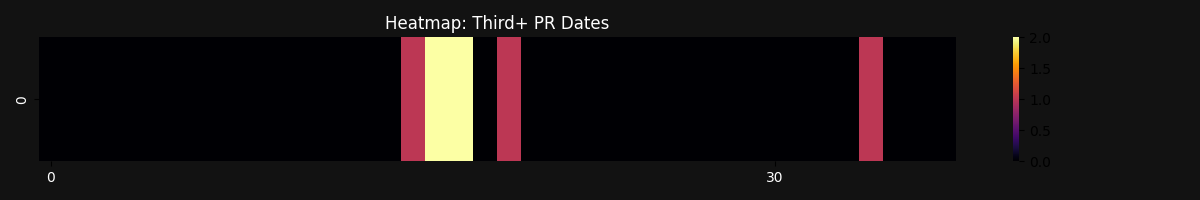
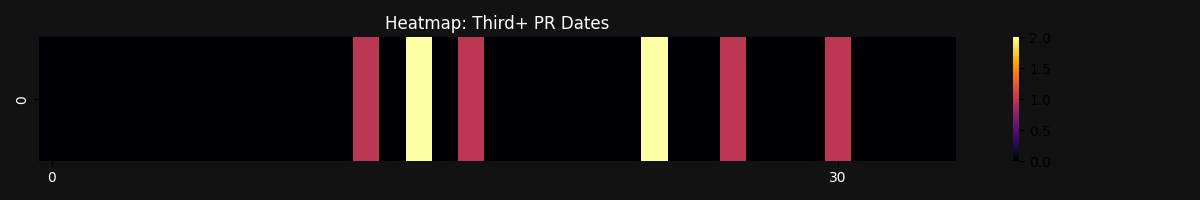
date correction & updated images

diff --git a/docs/index.html b/docs/index.html
@@ -52,7 +52,7 @@
 </head>
 <body>
     <h1>GitHub Pull Request Analysis Report</h1>
-    <p>44 accounts made PRs to at least 2 different repos between 2025-04-14 and 2025-05-21.</p>
+    <p>43 accounts made PRs to at least 2 different repos between 2025-04-17 and 2025-05-21.</p>
 
     
         

diff --git a/make_gh_pages.py b/make_gh_pages.py
@@ -11,7 +11,7 @@ DB_PATH = "pull_requests_2025.db"
 OUTPUT_DIR = "docs"
 TEMPLATE_DIR = "templates"
 TEMPLATE_FILE = "report_template.html"
-TIME_START = "2025-04-14T00:00:00Z"
+TIME_START = "2025-04-17T00:00:00Z"
 TIME_END = "2025-05-21T23:59:59Z"
 
 os.makedirs(OUTPUT_DIR, exist_ok=True)
